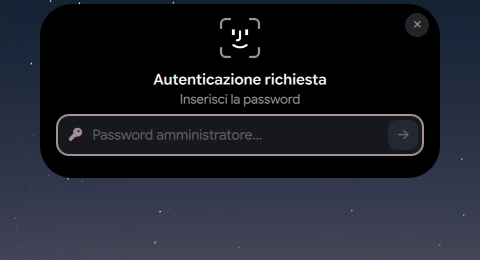
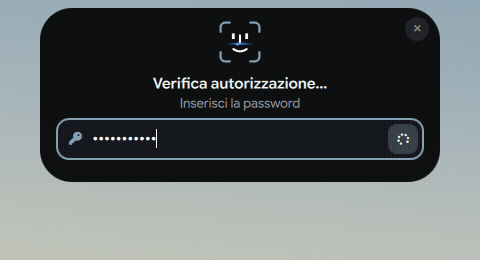
feat: purge legacy tide references & update screenshots with new features and Polkit success animation
- Completely remove all legacy 'tide' targets, macros, and file references across C++, QML, scripts, and documentation
- Update assets/screenshots/screen_share_picker.png: native Apple-style screen share picker with Iris palette and restore token
- Add assets/screenshots/settings_app.png: 980x680 floating GUI Settings App with category sidebar and geometry controls
- Add assets/screenshots/settings_studio_canvas.png: live interactive Studio Layout Canvas for Control Center customization
- Update assets/screenshots/control_center_power_menu.png: 5-button tactile glass Power Menu with Iris accents
- Re-record assets/gifs/polkit_auth.gif & update assets/screenshots/polkit_auth.png: full FaceID password typing, scanning verification, and compact green success morph
- Update README.md to showcase all new features with crisp screenshots on a clean empty workspace

diff --git a/shell.qml b/shell.qml
@@ -456,6 +456,13 @@ Scope {
             shellRoot.showPolkitPromptAll();
         }
 
+        function testPolkitSuccess() {
+            shellRoot.forFocusedWindow((window) => {
+                if (window && window.testPolkitSuccess)
+                    window.testPolkitSuccess();
+            });
+        }
+
         function closePolkit() {
             shellRoot.closePolkitPromptAll();
         }
@@ -621,144 +628,6 @@ Scope {
         }
 
         target: "island"
-    }
-
-    IpcHandler {
-        function showClock() {
-            shellRoot.forFocusedWindow((window) => {
-                return window.showClockWindow();
-            });
-        }
-
-        function showTimer() {
-            shellRoot.forFocusedWindow((window) => {
-                return window.showTimerWindow();
-            });
-        }
-
-        function showCustom() {
-            shellRoot.forFocusedWindow((window) => {
-                return window.showCustomInfoWindow();
-            });
-        }
-
-        function showLyrics() {
-            shellRoot.forFocusedWindow((window) => {
-                return window.showLyricsWindow();
-            });
-        }
-
-        function swipeRight() {
-            shellRoot.forFocusedWindow((window) => {
-                return window.swipeRightWindow();
-            });
-        }
-
-        function swipeLeft() {
-            shellRoot.forFocusedWindow((window) => {
-                return window.swipeLeftWindow();
-            });
-        }
-
-        function togglePlayer() {
-            shellRoot.forFocusedWindow((window) => {
-                return window.togglePlayerWindow();
-            });
-        }
-
-        function toggleControlCenter() {
-            shellRoot.forFocusedWindow((window) => {
-                return window.toggleControlCenterWindow();
-            });
-        }
-
-        function togglePowerMenu() {
-            shellRoot.forFocusedWindow((window) => {
-                return window.togglePowerMenuWindow();
-            });
-        }
-
-        function toggleNotificationCenter() {
-            shellRoot.forFocusedWindow((window) => {
-                return window.toggleNotificationCenterWindow();
-            });
-        }
-
-        function toggleWallpaperPicker() {
-            shellRoot.forFocusedWindow((window) => {
-                return window.toggleWallpaperPickerWindow();
-            });
-        }
-
-        function toggleApplicationLauncher() {
-            shellRoot.forFocusedWindow((window) => {
-                return window.toggleApplicationLauncherWindow();
-            });
-        }
-
-        function toggleClipboard() {
-            shellRoot.forFocusedWindow((window) => {
-                if (window && window.toggleClipboardWindow)
-                    window.toggleClipboardWindow();
-
-            });
-        }
-
-        function showClipboard() {
-            shellRoot.forFocusedWindow((window) => {
-                if (window && window.showClipboardWindow)
-                    window.showClipboardWindow();
-
-            });
-        }
-
-        function toggleFileShelf() {
-            shellRoot.forFocusedWindow((window) => {
-                return window.toggleFileShelfWindow();
-            });
-        }
-
-        function toggleSettingsApp() {
-            shellRoot.forFocusedWindow((window) => {
-                if (window && window.toggleSettingsAppWindow)
-                    window.toggleSettingsAppWindow();
-
-            });
-        }
-
-        function showSettingsApp() {
-            shellRoot.forFocusedWindow((window) => {
-                if (window && window.showSettingsAppWindow)
-                    window.showSettingsAppWindow();
-
-            });
-        }
-
-        function setSettingsCategory(catIndex: int) {
-            shellRoot.forFocusedWindow((window) => {
-                if (window && window.setSettingsCategory)
-                    window.setSettingsCategory(catIndex);
-
-            });
-        }
-
-        function setSettingsSubView(sub: string) {
-            shellRoot.forFocusedWindow((window) => {
-                if (window && window.setSettingsSubView)
-                    window.setSettingsSubView(sub);
-
-            });
-        }
-
-        function openFontBrowser(target: string) {
-            shellRoot.forFocusedWindow((window) => {
-                if (window && window.openSettingsFontBrowser)
-                    window.openSettingsFontBrowser(target);
-
-            });
-        }
-
-        target: "tide"
     }
 
     Connections {

diff --git a/DynamicIslandWindow.qml b/DynamicIslandWindow.qml
@@ -823,6 +823,32 @@ PanelWindow {
         islandContainer.closePolkitPrompt();
     }
 
+    function testPolkitSuccess() {
+        showPolkitPrompt();
+        demoPolkitTimer.restart();
+    }
+
+    Timer {
+        id: demoPolkitTimer
+        interval: 1000
+        repeat: false
+        onTriggered: {
+            if (polkitLoader.item) {
+                polkitLoader.item.simulateDemoSuccess();
+                demoMorphTimer.restart();
+            }
+        }
+    }
+
+    Timer {
+        id: demoMorphTimer
+        interval: 650
+        repeat: false
+        onTriggered: {
+            islandContainer.polkitSuccessMorph = true;
+        }
+    }
+
     function promptScreenShareSelection(fifoPath) {
         islandContainer.showScreenSharePicker(fifoPath);
     }

diff --git a/qml/island/PolkitLayer.qml b/qml/island/PolkitLayer.qml
@@ -123,6 +123,21 @@ FocusScope {
         }
     }
 
+    Timer {
+        id: demoVerifyTimer
+        interval: 650
+        repeat: false
+        onTriggered: {
+            root.markSuccess();
+        }
+    }
+
+    function simulateDemoSuccess() {
+        passInput.text = "password123";
+        authState = "verifying";
+        demoVerifyTimer.restart();
+    }
+
     // Top Right Cancel / Close Button
     Rectangle {
         id: closeBtn

diff --git a/qml/controlcenter/ControlCenterLayer.qml b/qml/controlcenter/ControlCenterLayer.qml
@@ -1352,7 +1352,7 @@ Item {
                 : "temp=\"$1\"\n"
                     + "if ! command -v gammastep >/dev/null 2>&1; then exit 127; fi\n"
                     + "gammastep -m wayland -P -O \"$temp\" >/dev/null 2>&1",
-            "tide-night-light",
+            "dynamic-island-night-light",
             controlCenter.nightLightTemperature.toString()
         ]
         running: false

diff --git a/backend/CompositorBackend.cpp b/backend/CompositorBackend.cpp
@@ -46,7 +46,7 @@ quint64 jsonU64(const QJsonValue &value)
 CompositorBackend::CompositorBackend(QObject *parent)
     : QObject(parent)
 {
-#if TIDE_ISLAND_WITH_NIRI
+#if DYNAMIC_ISLAND_WITH_NIRI
     m_niriReconnectTimer.setSingleShot(true);
     m_niriReconnectTimer.setInterval(2000);
     connect(&m_niriReconnectTimer, &QTimer::timeout, this, &CompositorBackend::connectNiriEventStream);
@@ -57,7 +57,7 @@ CompositorBackend::CompositorBackend(QObject *parent)
 
 CompositorBackend::~CompositorBackend()
 {
-#if TIDE_ISLAND_WITH_NIRI
+#if DYNAMIC_ISLAND_WITH_NIRI
     stopNiriEventStream();
 #endif
 }
@@ -112,7 +112,7 @@ bool CompositorBackend::isOutputFocused(const QString &outputName) const
 
 bool CompositorBackend::applyNiriEventJson(const QByteArray &line)
 {
-#if TIDE_ISLAND_WITH_NIRI
+#if DYNAMIC_ISLAND_WITH_NIRI
     QJsonParseError parseError;
     const QJsonDocument document = QJsonDocument::fromJson(line.trimmed(), &parseError);
     if (parseError.error != QJsonParseError::NoError || !document.isObject())
@@ -140,11 +140,9 @@ bool CompositorBackend::applyNiriEventJson(const QByteArray &line)
 void CompositorBackend::detectCompositor()
 {
     QByteArray compEnv = qgetenv("DYNAMIC_ISLAND_COMPOSITOR");
-    if (compEnv.isEmpty())
-        compEnv = qgetenv("TIDE_ISLAND_COMPOSITOR");
     const QString requested = normalizedCompositorName(QString::fromLocal8Bit(compEnv));
     if (!requested.isEmpty()) {
-#if TIDE_ISLAND_WITH_NIRI
+#if DYNAMIC_ISLAND_WITH_NIRI
         if (requested == QLatin1String("niri")) {
             setCompositor(QStringLiteral("niri"));
             startNiriEventStream();
@@ -155,7 +153,7 @@ void CompositorBackend::detectCompositor()
         return;
     }
 
-#if TIDE_ISLAND_WITH_NIRI
+#if DYNAMIC_ISLAND_WITH_NIRI
     if (desktopEnvironmentContains(
             QString::fromLocal8Bit(qgetenv("XDG_CURRENT_DESKTOP")),
             QStringLiteral("niri"))) {
@@ -208,7 +206,7 @@ void CompositorBackend::bumpRevision()
     emit revisionChanged();
 }
 
-#if TIDE_ISLAND_WITH_NIRI
+#if DYNAMIC_ISLAND_WITH_NIRI
 bool CompositorBackend::hasNiriSocket() const
 {
     return !qEnvironmentVariableIsEmpty("NIRI_SOCKET");

diff --git a/scripts/save_dynamic_config.py b/scripts/save_dynamic_config.py
@@ -10,7 +10,7 @@ import os
 CONFIG_DIR = os.path.expanduser("~/.config/dynamic-island")
 CONFIG_PATH = os.path.join(CONFIG_DIR, "config.json")
 USERCONFIG_PATH = os.path.join(CONFIG_DIR, "userconfig.json")
-LEGACY_TIDE_PATH = os.path.expanduser("~/.config/tide-island/userconfig.json")
+LEGACY_DYNAMIC_PATH = os.path.expanduser("~/.config/dynamic-island/userconfig.json")
 
 def atomic_write(filepath, content):
     os.makedirs(os.path.dirname(filepath), exist_ok=True)
@@ -41,7 +41,7 @@ def main():
     existing = {}
     
     # Read existing config if present
-    for candidate in [CONFIG_PATH, USERCONFIG_PATH, LEGACY_TIDE_PATH]:
+    for candidate in [CONFIG_PATH, USERCONFIG_PATH, LEGACY_DYNAMIC_PATH]:
         if os.path.exists(candidate):
             try:
                 with open(candidate, "r", encoding="utf-8") as f:
@@ -57,10 +57,10 @@ def main():
     try:
         atomic_write(CONFIG_PATH, content)
         atomic_write(USERCONFIG_PATH, content)
-        # Also sync legacy tide path if directory exists so external tools don't fail
-        if os.path.isdir(os.path.dirname(LEGACY_TIDE_PATH)):
+        # Also sync legacy config path if directory exists so external tools don't fail
+        if os.path.isdir(os.path.dirname(LEGACY_DYNAMIC_PATH)):
             try:
-                atomic_write(LEGACY_TIDE_PATH, content)
+                atomic_write(LEGACY_DYNAMIC_PATH, content)
             except Exception:
                 pass
         print("OK")

diff --git a/backend/CompositorBackend.h b/backend/CompositorBackend.h
@@ -51,7 +51,7 @@ private:
     void setFocusedOutputName(const QString &outputName);
     void bumpRevision();
 
-#if TIDE_ISLAND_WITH_NIRI
+#if DYNAMIC_ISLAND_WITH_NIRI
     void startNiriEventStream();
     void connectNiriEventStream();
     void stopNiriEventStream();
@@ -69,7 +69,7 @@ private:
     QHash<quint64, NiriWorkspaceState> m_niriWorkspaces;
     QHash<QString, int> m_niriActiveWorkspaceByOutput;
 
-#if TIDE_ISLAND_WITH_NIRI
+#if DYNAMIC_ISLAND_WITH_NIRI
     QString m_niriSocketPath;
     QLocalSocket *m_niriEventSocket = nullptr;
     QByteArray m_niriEventBuffer;

diff --git a/backend/UserConfigBackend.cpp b/backend/UserConfigBackend.cpp
@@ -126,15 +126,7 @@ QString determineConfigHome()
 QString determineUserConfigPath()
 {
     const QString base = determineConfigHome();
-    const QString dynamicPath = base + QStringLiteral("/dynamic-island/userconfig.json");
-    if (QFile::exists(dynamicPath))
-        return dynamicPath;
-
-    const QString legacyPath = base + QStringLiteral("/tide-island/userconfig.json");
-    if (QFile::exists(legacyPath))
-        return legacyPath;
-
-    return dynamicPath;
+    return base + QStringLiteral("/dynamic-island/userconfig.json");
 }
 }
 

diff --git a/scripts/resolve_discord_avatar.py b/scripts/resolve_discord_avatar.py
@@ -28,8 +28,8 @@ def resolve_avatar(caller_name):
     if os.path.isfile(cached_file) and os.path.getsize(cached_file) > 100:
         return f"file://{cached_file}"
 
-    # 3. Check /tmp/tide_discord_call_avatar.png if recent (< 30s)
-    tmp_avatar = "/tmp/tide_discord_call_avatar.png"
+    # 3. Check /tmp/dynamic_discord_call_avatar.png if recent (< 30s)
+    tmp_avatar = "/tmp/dynamic_discord_call_avatar.png"
     if os.path.isfile(tmp_avatar) and (time.time() - os.path.getmtime(tmp_avatar) < 30):
         return f"file://{tmp_avatar}"
 

diff --git a/scripts/apply_hyprland_binds.py b/scripts/apply_hyprland_binds.py
@@ -14,7 +14,7 @@ import subprocess
 HOME = os.path.expanduser("~")
 BINDS_LUA = os.path.join(HOME, ".config/hypr/moduli/binds.lua")
 SHORTCUTS_CONF_DYNAMIC = os.path.join(HOME, ".config/dynamic-island/hyprland-shortcuts.conf")
-SHORTCUTS_CONF_TIDE = os.path.join(HOME, ".config/tide-island/hyprland-shortcuts.conf")
+# LEGACY_SHORTCUTS_CONF = os.path.join(HOME, ".config/dynamic-island/hyprland-shortcuts.conf")
 CONFIG_JSON = os.path.join(HOME, ".config/dynamic-island/config.json")
 
 # Map of action to human-readable names and defaults

diff --git a/backend/SystemServices.cpp b/backend/SystemServices.cpp
@@ -735,8 +735,6 @@ void SystemServices::ensureUserConfigAvailable() {
         return;
 
     QString configAppPath = findExecutable(QStringLiteral("dynamic-island-config-app"));
-    if (configAppPath.isEmpty())
-        configAppPath = findExecutable(QStringLiteral("tide-island-config-app"));
     if (configAppPath.isEmpty()) {
         qWarning() << "[SystemServices] Could not find config app for missing or invalid user config:"
                    << config.userConfigPath()

diff --git a/backend/SysBackend.cpp b/backend/SysBackend.cpp
@@ -542,7 +542,6 @@ QString SysBackend::findLyricsBackendExecutable() const {
         QStringLiteral("/usr/share/dynamic-island/bin/lyricsmpris"),
         QStringLiteral("/usr/local/bin/lyricsmpris"),
         homeDir + "/.local/bin/lyricsmpris",
-        QStringLiteral("/usr/share/tide-island/bin/lyricsmpris"),
         quickshellConfigDir + "/bin/lyricsmpris",
         pathExecutable
     };
